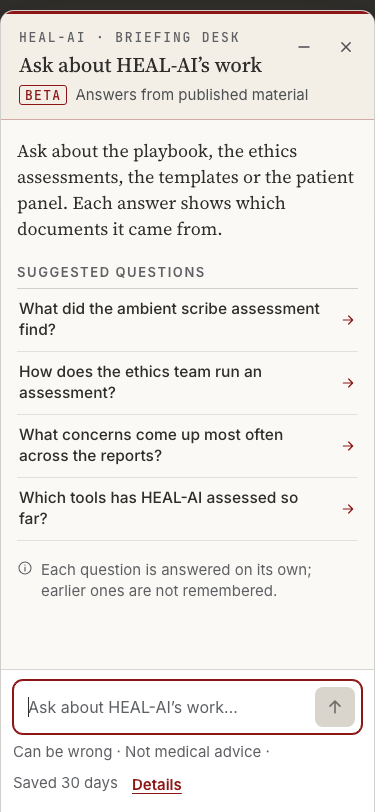
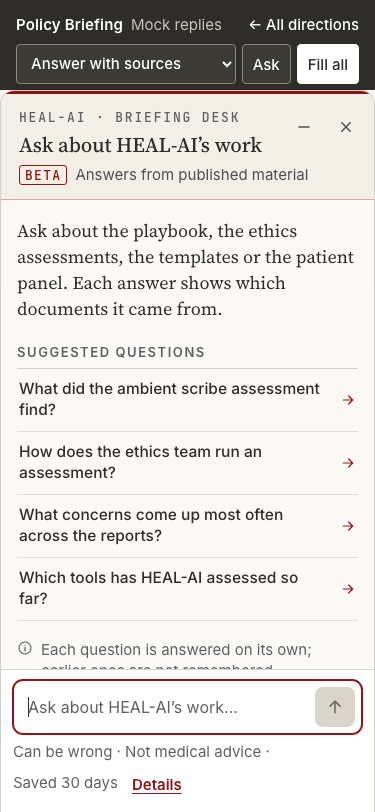
Save the prototype fixes before archiving the session

diff --git a/prototypes/assistant-ui/console/index.html b/prototypes/assistant-ui/console/index.html
@@ -85,7 +85,7 @@ kbd {
 
 /* ── Prototype bar ───────────────────────────────────────────────────── */
 .pbar {
-  position: relative; z-index: 1000;
+  position: relative; z-index: 1200;   /* above the phone sheet (1100) and the scrim */
   background: var(--bg-warm);
   border-bottom: 1px dashed #B9B4AA;
   font-family: var(--mono);
@@ -118,6 +118,7 @@ kbd {
 .pbar button:hover { border-color: var(--ink); }
 .pbar .pbar-fill { background: var(--char); color: var(--on-char); border-color: var(--char); }
 .pbar .pbar-fill:hover { background: #000; }
+.pb-short { display: none; }
 @media (min-width: 760px) { .pbar { position: sticky; top: 0; } }
 
 /* ── Mock site nav ───────────────────────────────────────────────────── */
@@ -260,8 +261,25 @@ kbd {
   .insp-head, .insp-row, .insp-note { padding-left: 16px; padding-right: 16px; }
   .cta-hint { display: none; }
   .try-foot span:not(:last-child) { display: none; }
-  .pbar select, .pbar button { height: 40px; font-size: 13px; }
+  /* Prototype bar: two short rows (name · mock note · back link, then the
+     controls), sticky, so it stays above the assistant sheet. */
+  .pbar { position: sticky; top: 0; font-size: 15px; }
+  .pbar-in { gap: 2px 12px; padding: 2px 16px 8px; padding-top: max(2px, env(safe-area-inset-top)); }
+  .pbar-id { width: 100%; gap: 0 12px; }
+  .pbar-tag { display: none; }
+  .pbar-back { margin-left: auto; }
+  .pb-long { display: none; }
+  .pb-short { display: inline; }
+  .pbar-ctl { width: 100%; margin-left: 0; flex-wrap: nowrap; }
+  .pbar-ctl label, .pb-sr { position: absolute; width: 1px; height: 1px; padding: 0; margin: -1px; overflow: hidden; clip: rect(0 0 0 0); white-space: nowrap; border: 0; }
+  .pbar select { flex: 1 1 auto; min-width: 0; }
+  .pbar button { flex: none; }
+  .pbar select, .pbar button { height: 40px; font-size: 15px; }
   .pbar-back { display: inline-flex; align-items: center; min-height: 40px; }
+  /* Type floor on phones: running text 15px, mono labels and keys 13px. */
+  kbd { font-size: 13px; min-width: 24px; height: 24px; }
+  .eyebrow, .try-label, .fact-k, .mono-label { font-size: 13px; }
+  .try-head, .try-foot, .insp-url, .insp-note, .insp-head p, .anchor-card p, .nav-links a, .site-foot { font-size: 15px; }
   .nav-links a, .wordmark { min-height: 40px; display: inline-flex; align-items: center; }
   .insp-row a { display: inline-block; padding: 8px 0; }
 }
@@ -569,17 +587,18 @@ kbd {
 
 /* Phone: full-height sheet */
 @media (max-width: 640px) {
-  .cc-launch { right: 16px; bottom: 16px; }
+  .cc-launch { right: 16px; bottom: 16px; font-size: 15px; }
   .cc-launch kbd { display: none; }
   .cc-scrim { display: none; }
   .cc-win {
-    top: 0; bottom: 0; left: 0; right: 0;
-    width: 100%; max-height: none; height: 100vh; height: 100dvh;
+    /* Starts below the sticky prototype bar, which stays visible above it. */
+    top: var(--bar-h); bottom: 0; left: 0; right: 0;
+    width: 100%; max-height: none; height: auto;
     border-radius: 0; border: 0; z-index: 1100;
     transform: translateY(12px);
   }
   .cc-esc, .cc-keys, .cc-navhint { display: none; }
-  .cc-head { padding: 8px 4px 8px 16px; padding-top: max(8px, env(safe-area-inset-top)); }
+  .cc-head { padding: 8px 4px 8px 16px; }
   .cc-head .mark { display: none; }
   .cc-title-row { flex-wrap: nowrap; }
   .cc-title { white-space: nowrap; }
@@ -600,29 +619,30 @@ kbd {
   .cc-next { flex-direction: column; gap: 2px; font-size: 15px; }
   .cc-standalone, .cc-intro.is-compact .cc-standalone { font-size: 15px; }
   .cc-lede { font-size: 15.5px; }
-  .cc-meta { font-size: 11.5px; }
   .cc-composer { padding: 10px 10px max(10px, env(safe-area-inset-bottom)); }
   .cc-send { min-width: 44px; height: 40px; justify-content: center; padding: 0 12px; }
   .cc-send .lbl, .cc-send kbd { display: none; }
   .cc-prompt, .cc-count { line-height: 40px; }
   .cc-input { padding: 8px 0; height: 40px; }
   .cc-foot { margin-top: 6px; }
-  .cc-line { font-family: var(--sans); font-size: 12px; flex-wrap: nowrap; gap: 4px; width: 100%; justify-content: space-between; }
-  /* One line at 375px; on narrower phones "Saved 30 days" drops to a
-     second line as a unit instead of being clipped. */
-  .cc-line > span { min-width: 0; }
+  /* One notice that may wrap to two lines, with Details inline at its end.
+     "Saved 30 days" wraps as a unit. */
+  .cc-line { display: block; width: 100%; font-family: var(--sans); font-size: 15px; line-height: 1.5; }
   #ccSaved { white-space: nowrap; }
-  .cc-more { font-family: var(--sans); font-size: 13px; font-weight: 600; padding: 0 4px; margin: 0 -4px 0 0; min-height: 40px; flex: none; }
+  .cc-more { position: relative; font-family: var(--sans); font-size: 15px; font-weight: 600; padding: 0 2px; margin: 0 0 0 4px; }
+  .cc-more::after { content: ""; position: absolute; left: -6px; right: -6px; top: 50%; height: 40px; transform: translateY(-50%); }
   .cc-notice p { font-size: 15px; }
   .cc-comment label { font-size: 15px; }
   .cc-pill { font-size: 15px; }
   .cc-done { font-size: 15px; font-family: var(--sans); }
   .cc-comment-n { font-size: 13px; }
-  .cc-src-w { font-size: 13px; }
-  .cc-meta { font-size: 12.5px; }
-  .cc-beta { font-size: 11.5px; }
-  .cc-sub { font-size: 12.5px; }
-  .cc-uncited, .cc-next .lbl, .cc-src-head { font-size: 12px; }
+  .cc-src-w { font-size: 15px; }
+  .cc-sub { font-family: var(--sans); font-size: 15px; }
+  .cc-meta, .cc-beta, .cc-count, .cc-group .mono-label { font-size: 13px; }
+  .cc-uncited, .cc-next .lbl, .cc-src-head { font-size: 13px; }
+  .cc-cite { font-size: 13px; min-width: 24px; height: 22px; }
+  .cc-src-n { font-size: 13px; width: 26px; height: 24px; }
+  .cc-standalone::before { font-size: 13px; width: 18px; height: 18px; transform: translateY(3px); }
   /* Bigger hit areas on touch without changing the layout: the citation
      chips grow to ~40px tall, and a source row is one target. */
   .cc-cite::after { content: ""; position: absolute; left: -1px; right: -1px; top: -11px; bottom: -11px; }
@@ -651,14 +671,14 @@ kbd {
     <div class="pbar-id">
       <span class="pbar-tag">Prototype</span>
       <span class="pbar-name">Command Console</span>
-      <span class="pbar-mock">Prototype · mock replies, not real answers</span>
-      <a class="pbar-back" href="../index.html">← All directions</a>
+      <span class="pbar-mock"><span class="pb-long">Prototype · mock replies, not real answers</span><span class="pb-short">Mock replies</span></span>
+      <a class="pbar-back" href="../index.html">← All<span class="pb-sr"> directions</span></a>
     </div>
     <div class="pbar-ctl">
       <label for="pbSel">Show reply type</label>
       <select id="pbSel"></select>
       <button type="button" id="pbShow">Ask it</button>
-      <button type="button" id="pbFill" class="pbar-fill">Fill with every reply type</button>
+      <button type="button" id="pbFill" class="pbar-fill">Fill<span class="pb-long"> with every reply type</span><span class="pb-short"> all<span class="sr"> — every reply type</span></span></button>
     </div>
   </div>
 </div>
@@ -840,7 +860,7 @@ kbd {
   $('ccNote').textContent = C.note;
   $('ccPrivacy').textContent = C.privacy;
 
-  /* The sticky prototype bar's height, so the palette sits below it. */
+  /* The sticky prototype bar's height, so the palette (and the phone sheet) sits below it. */
   var pbar = $('pbar');
   function measureBar() {
     var sticky = getComputedStyle(pbar).position === 'sticky';
@@ -850,6 +870,7 @@ kbd {
   window.addEventListener('resize', measureBar);
   window.addEventListener('load', measureBar);
   if (document.fonts && document.fonts.ready) document.fonts.ready.then(measureBar);
+  if (window.ResizeObserver) new ResizeObserver(measureBar).observe(pbar);
 
   /* ── helpers ─────────────────────────────────────────────────────── */
   function safeLink(href) {

diff --git a/prototypes/assistant-ui/evidence/index.html b/prototypes/assistant-ui/evidence/index.html
@@ -53,6 +53,7 @@
   --sh-3: 0 30px 70px -18px rgba(16, 20, 28, .32), 0 10px 24px -10px rgba(16, 20, 28, .14);
   --ease: cubic-bezier(.2, .7, .2, 1);
   --focus: 0 0 0 2px #fff, 0 0 0 4px var(--cardinal);
+  --bar-h: 48px;       /* set from the real prototype-bar height by script */
 }
 
 *, *::before, *::after { box-sizing: border-box; }
@@ -116,6 +117,8 @@ svg { flex: none; }
 .proto button:hover, .proto-back:hover, .proto select:hover { border-color: #A3A7B0; background: #2A2D34; }
 .proto :focus-visible { outline: 2px solid #fff; outline-offset: 2px; }
 .proto-fill { border-color: #E35A5A !important; }
+.pb-short { display: none; }
+.proto-back { margin-left: 4px; }
 
 /* ── Mock site header ──────────────────────────────────────────────── */
 .site {
@@ -733,12 +736,23 @@ svg { flex: none; }
 /* ── Phone ─────────────────────────────────────────────────────────── */
 @media (max-width: 600px) {
   .wrap { padding: 0 16px; }
-  .proto-in { padding: 8px 16px; gap: 8px; }
-  .proto-ctl { width: 100%; }
-  .proto-lbl { width: 100%; }
-  .proto select { flex: 1 1 160px; min-width: 0; min-height: 40px; }
-  .proto button, .proto-back { min-height: 40px; }
-  .proto-fill { flex: 1 1 auto; justify-content: center; }
+  .proto { font-size: 15px; line-height: 1.3; }
+  .proto-in { padding: 6px 16px; gap: 6px; }
+  .proto-id { width: 100%; flex-wrap: nowrap; gap: 10px; }
+  .proto-dir, .proto-note { white-space: nowrap; }
+  .proto-note { font-family: var(--sans); font-size: 15px; }
+  .proto-back { margin-left: auto; min-height: 36px; font-size: 15px; white-space: nowrap; }
+  .proto-ctl { width: 100%; flex-wrap: nowrap; gap: 6px; }
+  .proto-lbl { position: absolute; width: 1px; height: 1px; margin: -1px; overflow: hidden; clip: rect(0 0 0 0); white-space: nowrap; }
+  .proto select { flex: 1 1 auto; min-width: 0; min-height: 40px; font-size: 16px; }
+  .proto button { min-height: 40px; font-size: 15px; white-space: nowrap; flex: none; }
+  .pb-long { display: none; }
+  .pb-short { display: inline; }
+  .pb-sr { position: absolute; width: 1px; height: 1px; margin: -1px; overflow: hidden; clip: rect(0 0 0 0); white-space: nowrap; }
+  /* While the sheet is open the bar is pinned above it, so reply types can
+     still be switched. Body padding keeps the page from jumping. */
+  html.ev-sheet-open .proto { position: fixed; top: 0; left: 0; right: 0; z-index: 950; }
+  html.ev-sheet-open body { padding-top: var(--bar-h); }
 
   .site-in { height: 56px; }
   .hero { padding: 40px 0 48px; }
@@ -750,6 +764,10 @@ svg { flex: none; }
   .ex { width: 100%; border-radius: var(--r); font-size: 15px; min-height: 44px; }
   .anat-card { padding: 14px; }
   .anat-row { gap: 6px; }
+  .anat-lbl, .anat-c, .anat-b, .anat-pill { font-size: 12px; }
+  .anat-b, .anat-pill { min-width: 20px; height: 20px; }
+  .anat-c { letter-spacing: .03em; }
+  .anat-steps li::before { font-size: 13px; }
   .anat-steps li { font-size: 15px; }
 
   .inspired { padding: 48px 0 56px; }
@@ -766,7 +784,7 @@ svg { flex: none; }
   .ev[data-open="true"] .ev-launch { display: none; }
   .ev-launch { right: 16px; bottom: max(16px, env(safe-area-inset-bottom)); height: 54px; }
   .ev-win {
-    left: 0; right: 0; bottom: 0; top: 10px;
+    left: 0; right: 0; bottom: 0; top: var(--bar-h);
     width: 100%; height: auto; max-height: none;
     border-radius: 18px 18px 0 0; border-bottom: 0;
     transform: translateY(24px); transform-origin: bottom center;
@@ -797,7 +815,7 @@ svg { flex: none; }
   .ev-starter { min-height: 48px; }
   .ev-thumb, .ev-comment-send, .ev-retry, .ev-next a { min-height: 44px; }
   .ev-thumb { padding: 0 16px; }
-  .ev-cite { min-width: 26px; height: 24px; font-size: 12px; }
+  .ev-cite { min-width: 28px; height: 24px; font-size: 13px; }
   .ev-foot { padding: 10px 14px max(10px, env(safe-area-inset-bottom)); }
   .ev-input { font-size: 16px; }
   .ev-send { width: 44px; height: 44px; }
@@ -809,14 +827,18 @@ svg { flex: none; }
   .ev-next p, .ev-next a, .ev-src-meta, .ev-card-sec, .ev-comment-label, .ev-comment-label span,
   .ev-status-head strong, .ev-error .ev-status-head strong, .ev-rate-done { font-size: 15px; }
   .ev-count { font-size: 13px; }
-  .ev-kicker, .ev-sec-h, .ev-sec-meta, .ev-chip, .ev-card-mark, .ev-beta, .ev-badge { font-size: 12px; }
+  .ev-kicker, .ev-sec-h, .ev-chip, .ev-card-mark, .ev-beta, .ev-badge { font-size: 13px; }
+  .ev-badge { min-width: 22px; height: 22px; }
+  .ev-srcitem { grid-template-columns: 24px minmax(0, 1fr); }
+  .ev-sec-meta { font-size: 15px; }
+  .ev-chip { letter-spacing: .02em; }
   .ev-standalone-bar svg { margin-top: 4px; }
   .ev-sub { align-items: flex-start; }
   .ev-sub svg { margin-top: 3px; }
-  .hero-meta, .examples-lbl, .eyebrow, .insp-kicker { font-size: 13px; }
+  .examples-lbl, .eyebrow, .insp-kicker { font-size: 13px; }
+  .hero-meta { font-size: 15px; }
   .insp-url, .site-foot, .site-foot .tiny { font-size: 15px; }
-  .proto-note, .proto-lbl { font-size: 13px; }
-  .site nav a { min-height: 40px; display: inline-flex; align-items: center; }
+  .site nav a { min-height: 40px; display: inline-flex; align-items: center; font-size: 15px; }
   .insp-site a { min-height: 40px; }
   html.ev-sheet-open, html.ev-sheet-open body { overflow: hidden; }
 }
@@ -831,18 +853,18 @@ svg { flex: none; }
 <body>
 
 <!-- ── Prototype bar (not part of the design) ───────────────────────── -->
-<div class="proto" role="region" aria-label="Prototype controls">
+<div class="proto" id="proto" role="region" aria-label="Prototype controls">
   <div class="proto-in">
     <div class="proto-id">
       <span class="proto-dir">Evidence First</span>
-      <span class="proto-note">Prototype · mock replies, not real answers</span>
+      <span class="proto-note"><span class="pb-long">Prototype · m</span><span class="pb-short">M</span>ock replies<span class="pb-long">, not real answers</span></span>
+      <a class="proto-back" href="../index.html">← All<span class="pb-sr">&nbsp;directions</span></a>
     </div>
     <div class="proto-ctl">
       <label class="proto-lbl" for="proto-type">Show reply type</label>
       <select id="proto-type"></select>
       <button type="button" id="proto-ask">Ask it</button>
-      <button type="button" id="proto-fill" class="proto-fill">Fill with every reply type</button>
-      <a class="proto-back" href="../index.html">← All directions</a>
+      <button type="button" id="proto-fill" class="proto-fill">Fill<span class="pb-long">&nbsp;with every reply type</span><span class="pb-short">&nbsp;all<span class="sr">&nbsp;— every reply type</span></span></button>
     </div>
   </div>
 </div>
@@ -1638,6 +1660,14 @@ svg { flex: none; }
     li.appendChild(b);
     exList.appendChild(li);
   });
+
+  /* ── Prototype bar height → sheet top on phones ────────────────── */
+  var protoBar = document.getElementById('proto');
+  function setBar() { document.documentElement.style.setProperty('--bar-h', protoBar.offsetHeight + 'px'); }
+  setBar();
+  window.addEventListener('resize', setBar);
+  if (window.ResizeObserver) new ResizeObserver(setBar).observe(protoBar);
+  if (document.fonts && document.fonts.ready) document.fonts.ready.then(setBar).catch(function () {});
 
   /* ── Prototype controls ────────────────────────────────────────── */
   var sel = document.getElementById('proto-type');

diff --git a/prototypes/assistant-ui/briefing/index.html b/prototypes/assistant-ui/briefing/index.html
@@ -37,6 +37,8 @@
   --mono: 'JetBrains Mono', ui-monospace, SFMono-Regular, Menlo, monospace;
 
   --ease: cubic-bezier(.2, .6, .2, 1);
+  --bar-h: 48px;             /* real prototype-bar height, set by script */
+  --top-h: 117px;            /* prototype bar + site header, set by script */
   --shadow-panel: 0 1px 0 rgba(46,45,41,.04), 0 24px 60px -12px rgba(46,45,41,.28), 0 8px 18px -6px rgba(46,45,41,.12);
 }
 
@@ -89,6 +91,7 @@ button { cursor: pointer; }
 .proto button:hover, .proto select:hover { background: #46453F; }
 .proto .proto-fill { background: #fff; color: var(--ink); border-color: #fff; }
 .proto .proto-fill:hover { background: #EDE9E1; }
+.pb-short { display: none; }
 
 /* ── Site header (mock) ────────────────────────────────────────────── */
 .site-head { border-bottom: 1px solid var(--rule); background: var(--paper); }
@@ -208,6 +211,8 @@ button { cursor: pointer; }
 .panel {
   position: fixed; z-index: 60; right: 24px; bottom: 90px;
   width: min(440px, calc(100vw - 32px)); height: min(740px, calc(100vh - 136px));
+  /* top edge stays below the site header (so the nav is never covered), but never shorter than 560px */
+  height: min(740px, calc(100vh - 136px), max(560px, calc(100vh - 102px - var(--top-h))));
   display: flex; flex-direction: column;
   background: var(--paper); border: 1px solid var(--rule-mid); border-radius: 10px;
   box-shadow: var(--shadow-panel); overflow: hidden;
@@ -466,9 +471,21 @@ button { cursor: pointer; }
   .inspired-list a { padding: 10px 0; }          /* inline padding: bigger tap area, no layout change */
 }
 @media (max-width: 600px) {
+  /* Prototype bar: two short rows, kept above the sheet so reply types can be switched while it is open */
+  .proto { position: sticky; top: 0; z-index: 70; }
+  .proto .wrap { gap: 0 12px; padding-top: 4px; padding-bottom: 6px; }
+  .proto-back { order: 2; margin-left: auto; }
+  .proto-id { order: 1; gap: 0 8px; min-width: 0; }
+  .proto-ctl { order: 3; width: 100%; flex-wrap: nowrap; }
+  .proto-ctl label { position: absolute; width: 1px; height: 1px; margin: -1px; overflow: hidden; clip: rect(0 0 0 0); white-space: nowrap; }
+  .proto select { flex: 1; min-width: 0; }
+  .proto button { flex: none; }
+  .pb-long { display: none; }
+  .pb-short { display: inline; }
+  main [id], .site-foot [id] { scroll-margin-top: calc(var(--bar-h) + 8px); }
   .launcher { right: 16px; bottom: 16px; }
   .panel {
-    left: 0; right: 0; bottom: 0; top: 10px; width: auto; height: auto;
+    left: 0; right: 0; bottom: 0; top: var(--bar-h); width: auto; height: auto;
     border-radius: 14px 14px 0 0; border-bottom: 0; transform-origin: bottom center;
     transform: translateY(24px);
   }
@@ -492,11 +509,13 @@ button { cursor: pointer; }
   .foot-line { display: block; }                 /* "Details" follows the last segment instead of taking a row of its own */
   .more { display: inline-flex; align-items: center; vertical-align: middle; min-height: 40px; padding: 0 4px; margin-left: 6px; }
   .memo-eyebrow { letter-spacing: .06em; }
-  .count, .rate-actions .cc, .note-n { font-size: 14px; }
+  .count, .rate-actions .cc, .note-n { font-size: 15px; }
+  .example .n, .anatomy .k { font-size: 13px; }
+  .inspired-list .url, .inspired-list li::before { font-size: 15px; }
+  /* citation markers: 13px, with line-height 1 so the raised box does not push lines apart */
+  .cite { font-size: 13px; line-height: 1; padding: 2px 3px 1px; top: -.5em; }
+  .cite-sep { font-size: 13px; top: -.45em; }
   .note-link, .nb-next a { padding: 10px 0; }    /* inline padding: ~40px tap height without moving text */
-}
-@media (max-width: 380px) {
-  .proto-ctl label { width: 100%; }
 }
 
 /* ── Motion ────────────────────────────────────────────────────────── */
@@ -518,15 +537,15 @@ button { cursor: pointer; }
 <body>
 
 <!-- Prototype controls — not part of the design -->
-<div class="proto" role="region" aria-label="Prototype controls">
+<div class="proto" id="proto" role="region" aria-label="Prototype controls">
   <div class="wrap">
     <a class="proto-back" href="../index.html">← All directions</a>
-    <p class="proto-id" style="margin:0"><b>Policy Briefing</b><span>Prototype · mock replies, not real answers</span></p>
+    <p class="proto-id" style="margin:0"><b>Policy Briefing</b><span><span class="pb-long">Prototype · mock replies, not real answers</span><span class="pb-short">Mock replies</span></span></p>
     <div class="proto-ctl">
       <label for="proto-type">Show reply type</label>
       <select id="proto-type"></select>
       <button type="button" id="proto-show">Ask</button>
-      <button type="button" id="proto-fill" class="proto-fill">Fill with every reply type</button>
+      <button type="button" id="proto-fill" class="proto-fill">Fill<span class="pb-long"> with every reply type</span><span class="pb-short"> all<span class="sr-only"> — every reply type</span></span></button>
     </div>
   </div>
 </div>
@@ -706,6 +725,20 @@ button { cursor: pointer; }
   var busy = false, inflight = Promise.resolve(), generation = 0, turn = 0, healthChecked = false;
 
   function motion() { return !FAST && !M.reducedMotion(); }
+
+  /* ── Bar heights → CSS: phone sheet starts below the prototype bar;
+        desktop panel stays below the site header ─────────────────── */
+  var protoBar = $('proto'), siteHead = document.querySelector('.site-head');
+  function setBar() {
+    var h = protoBar.offsetHeight;
+    document.documentElement.style.setProperty('--bar-h', h + 'px');
+    document.documentElement.style.setProperty('--top-h', (h + siteHead.offsetHeight) + 'px');
+  }
+  setBar();
+  window.addEventListener('load', setBar);
+  window.addEventListener('resize', setBar);
+  if (document.fonts && document.fonts.ready) document.fonts.ready.then(setBar);
+  if (window.ResizeObserver) { var ro = new ResizeObserver(setBar); ro.observe(protoBar); ro.observe(siteHead); }
 
   /* ── Details notice ─────────────────────────────────────────────── */
   more.addEventListener('click', function () {
